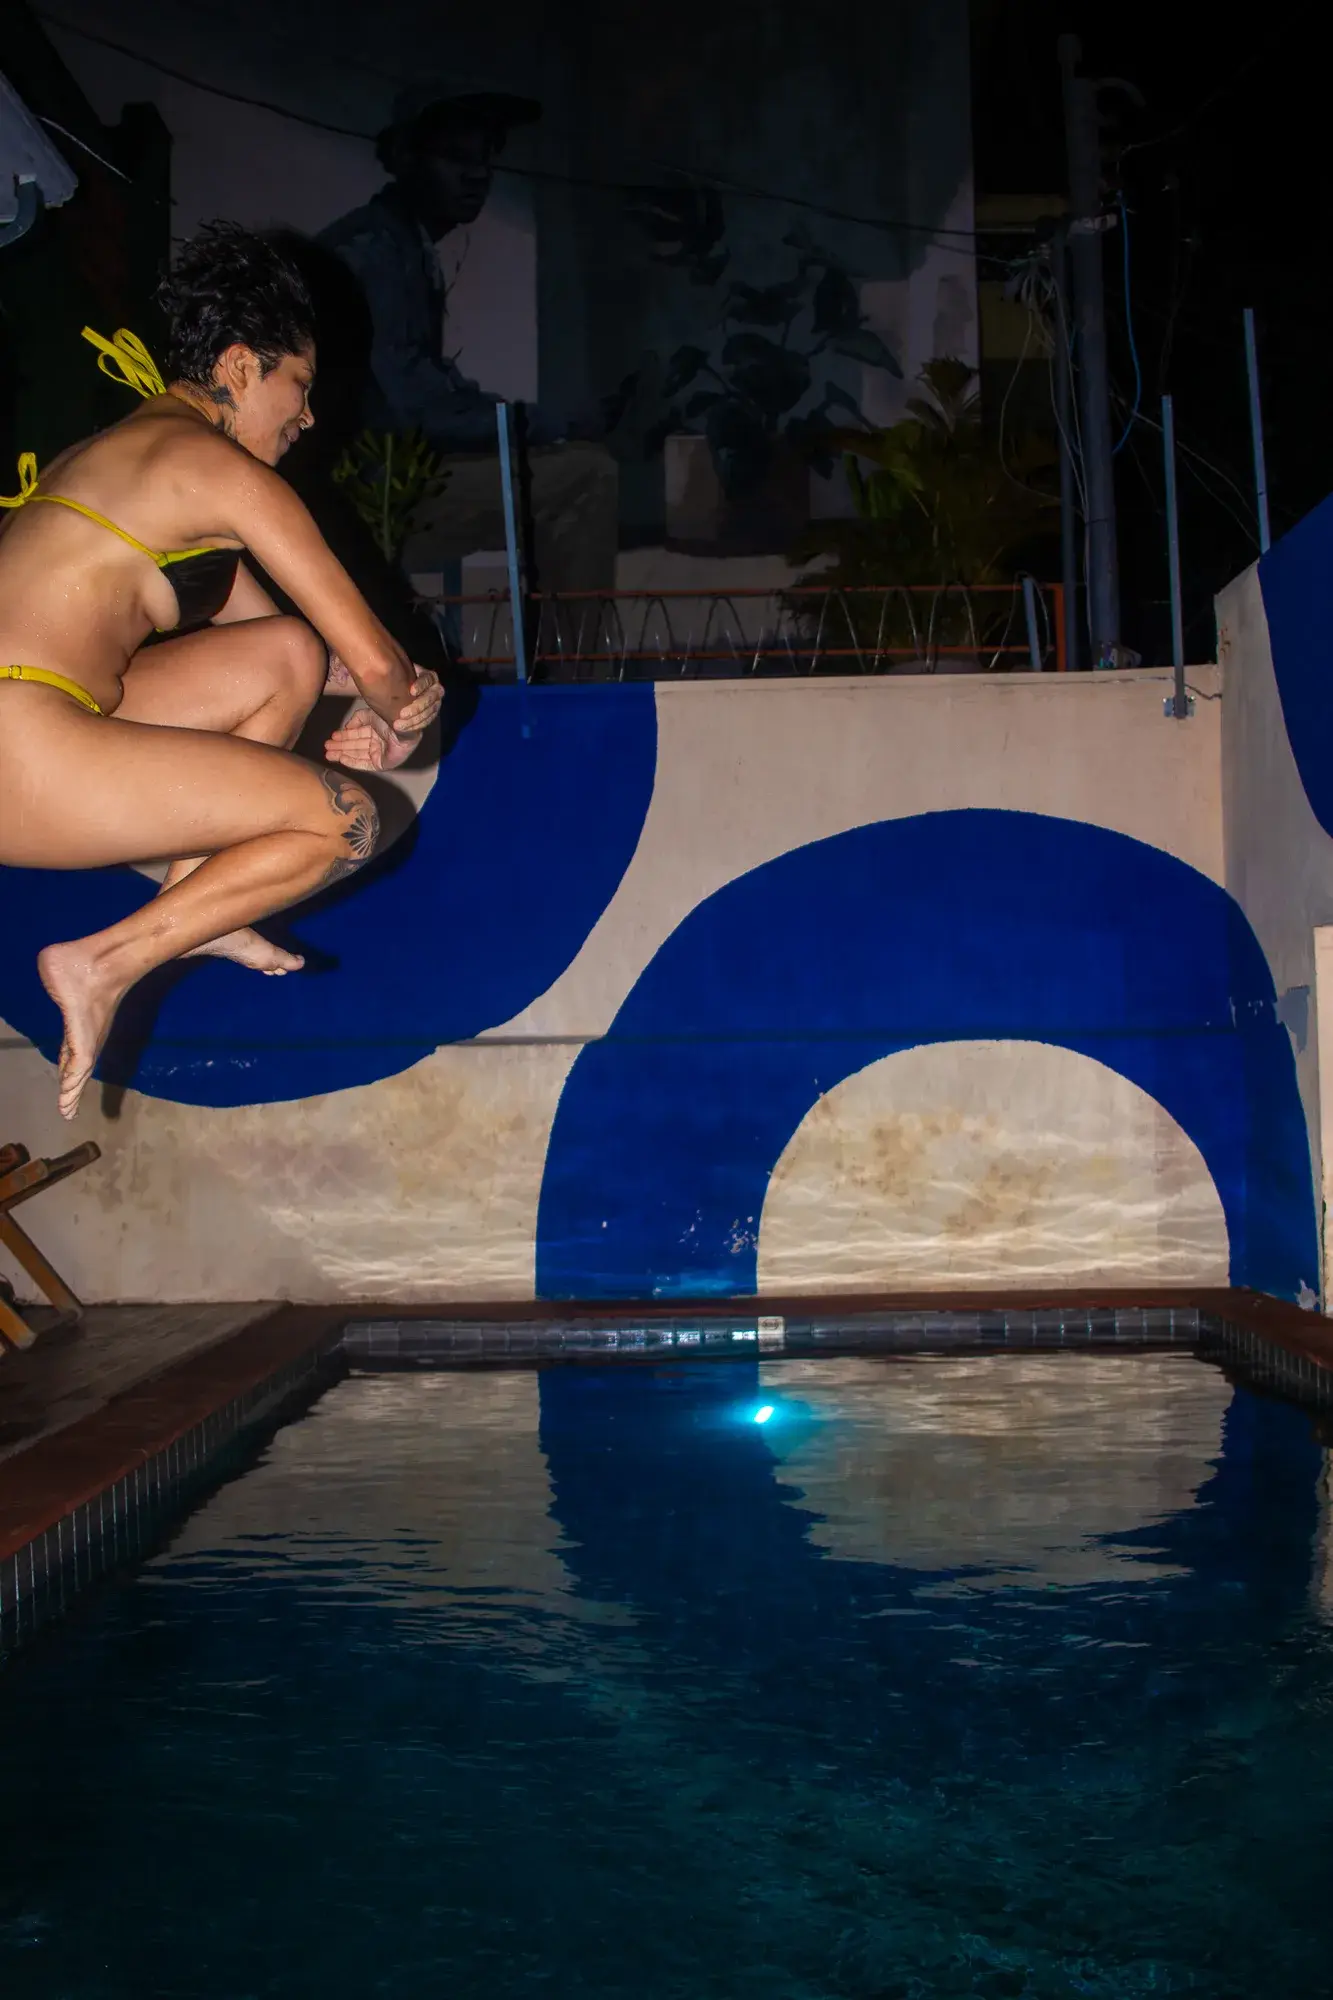
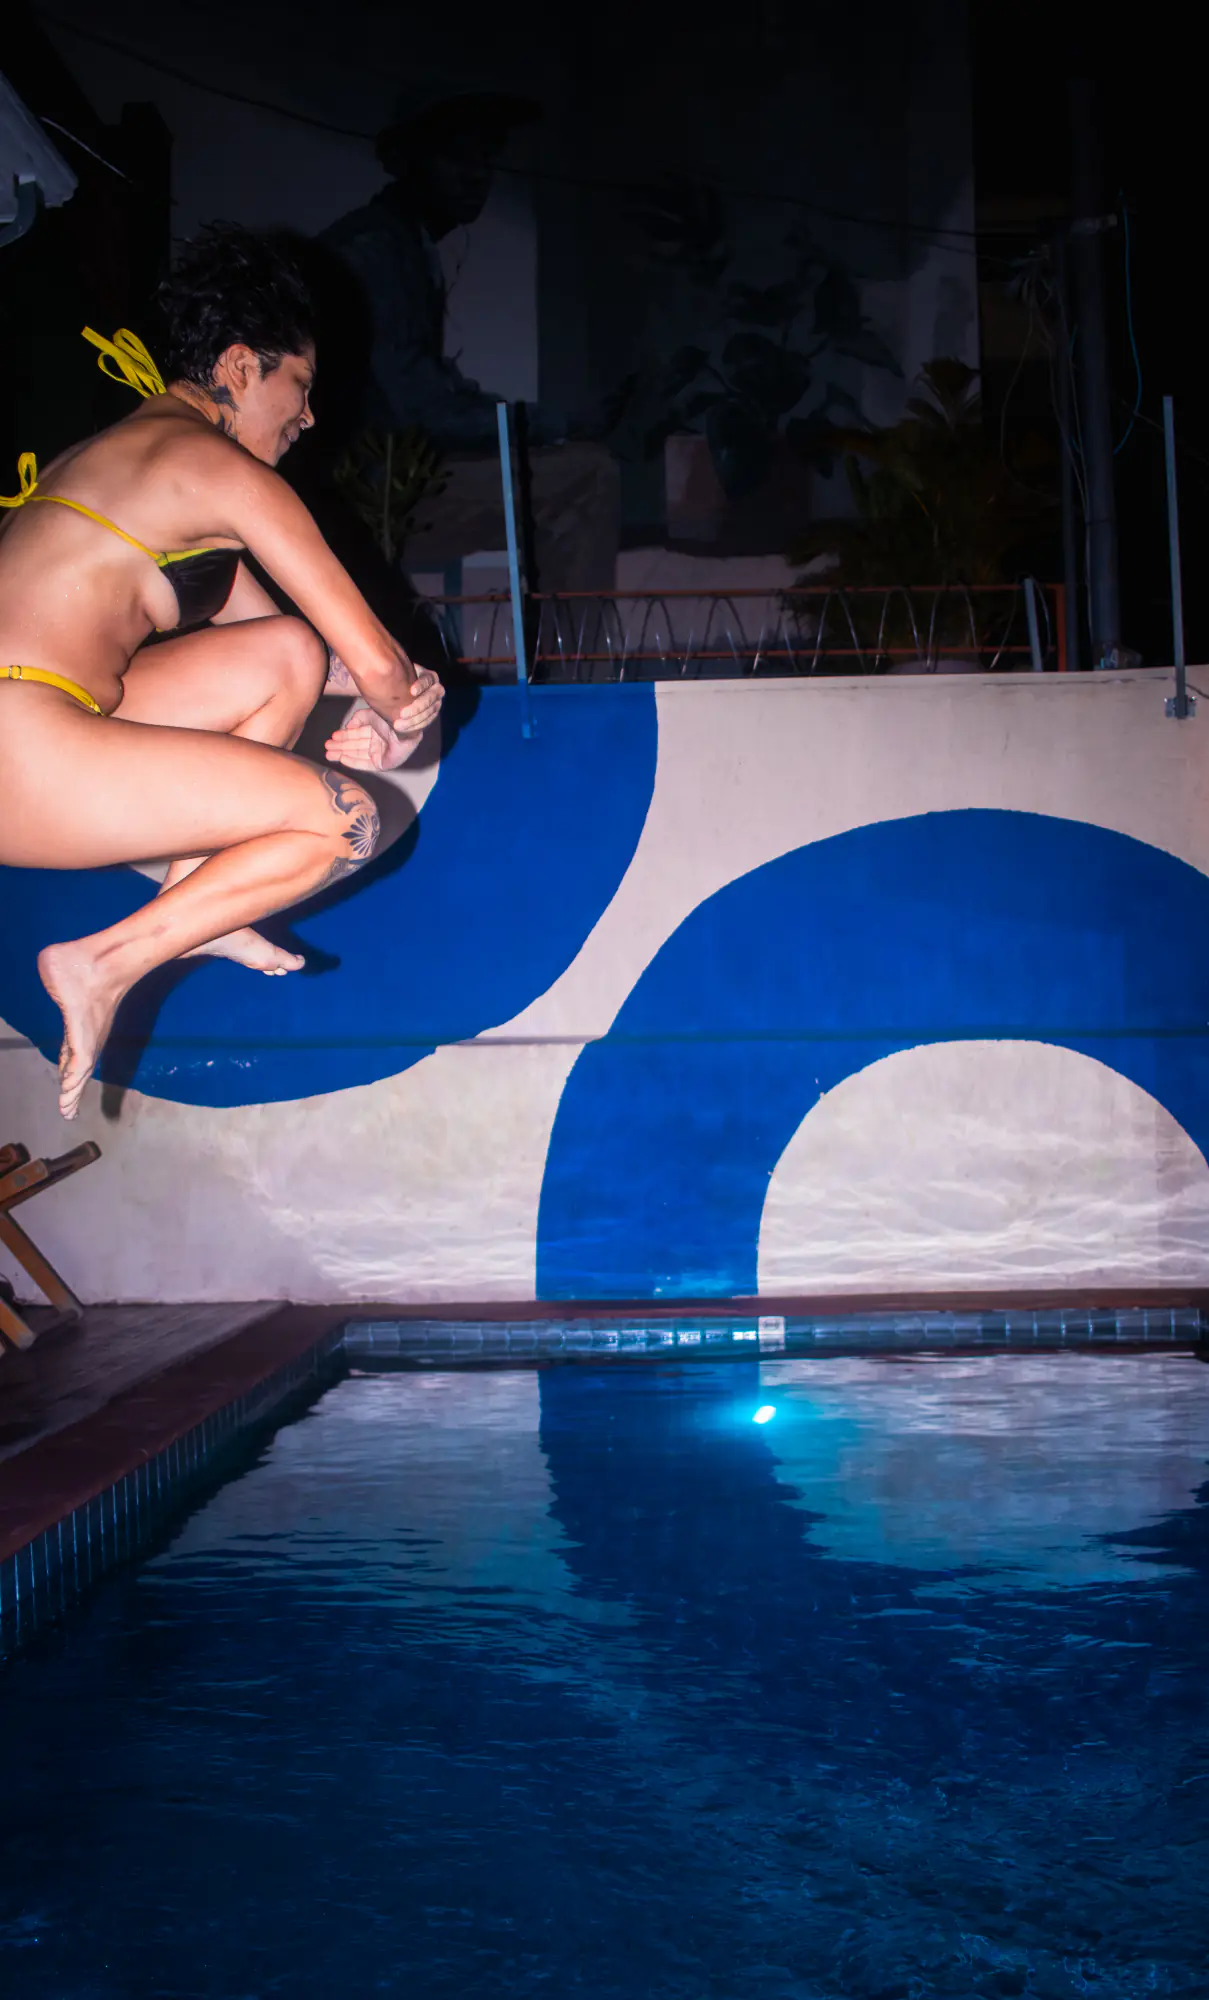
hospitality: piscina com o export novo do Lightroom (1209x2000)

diff --git a/src/content/i18n/pages/hospitality.ts b/src/content/i18n/pages/hospitality.ts
@@ -112,7 +112,7 @@ export const SHOTS: Shot[] = [
   },
   {
     src: `${base}/14-piscina.webp`,
-    w: 1333,
+    w: 1209,
     h: 2000,
     role: { en: 'The amenity, at night', pt: 'O diferencial, à noite' },
     alt: {
